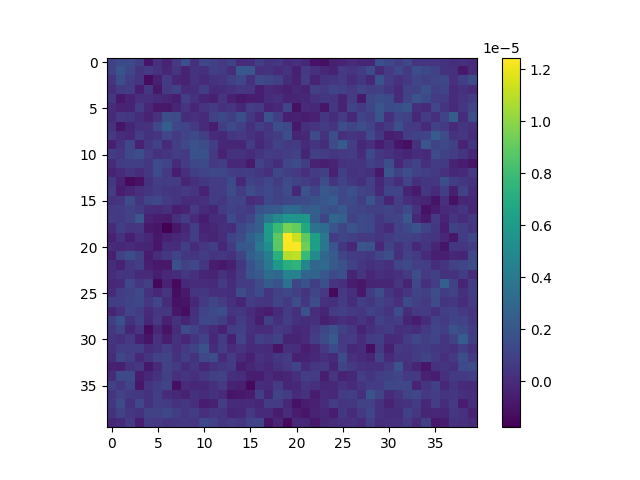
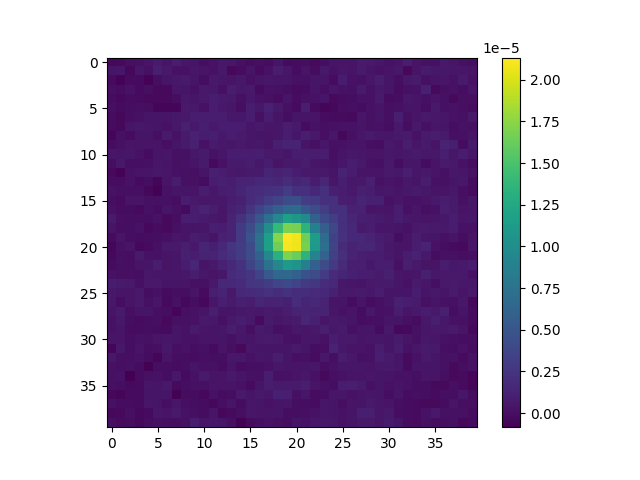
fixed mask stamp too large

diff --git a/stacker.py b/stacker.py
@@ -12,7 +12,7 @@ def stack(ras, decs, map1, mask1, width = 20.):
 	divisor = 0
 	for i in range(len(ras)):
 		tempdec, tempra = np.deg2rad([decs[i], ras[i]])
-		tempwid = np.deg2rad(width)
+		tempwid = np.deg2rad(width/60.)
 		box = [[tempdec-tempwid,tempra-tempwid],[tempdec+tempwid,tempra+tempwid]]
 		maskstamp = mask1.submap(box)
 		#Check if the stamp is entirely within borders, i.e. if the mask stamp is entirely ones
@@ -22,6 +22,7 @@ def stack(ras, decs, map1, mask1, width = 20.):
 			stack += stamp[0]
 			divisor += 1
 	stack /= divisor
+	print(divisor)
 	return stack
 
 mappath = '/scratch/r/rbond/msyriac/data/depot/tilec/v1.2.0_20200324/map_v1.2.0_joint_boss/'
